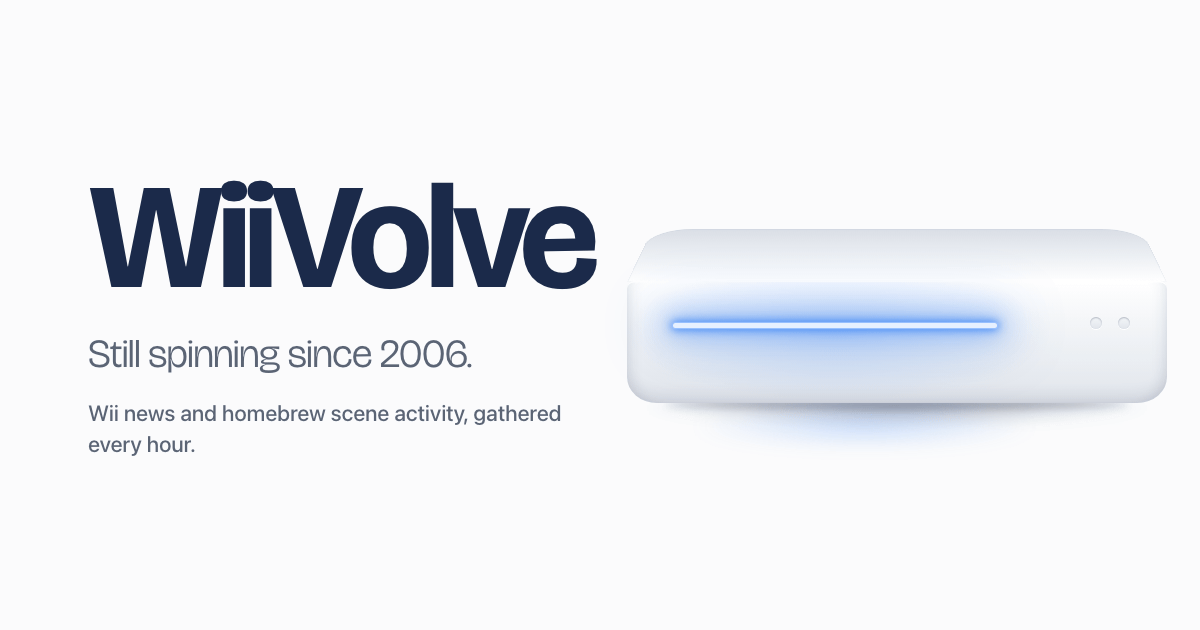
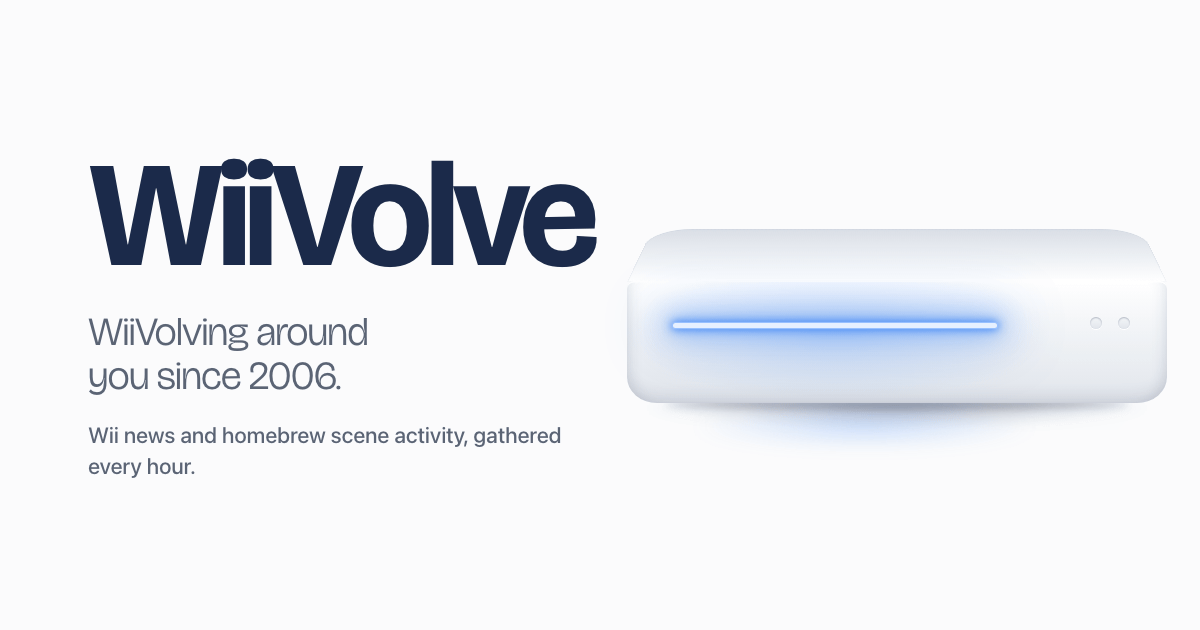
Tagline and footer: "WiiVolving around you since 2006.", no GitHub or JSON Feed link
The hero, page title, share image and docs now carry the original site's
slogan. The footer links RSS and About only; the JSON Feed and the GitHub
links stay in the About panel.

Changed region(s): [[0.0617, 0.2413, 0.4933, 0.4825], [0.0617, 0.5127, 0.4625, 0.754]]

diff --git a/assets-src/art.css b/assets-src/art.css
@@ -3,7 +3,7 @@
 *{animation:none!important;transition:none!important}
 body.og{display:grid;grid-template-columns:1fr 560px;align-items:center;gap:24px;width:1200px;height:630px;margin:0;padding:0 72px 0 88px;background:#fbfbfc;color:#1b2a4a;overflow:hidden}
 .og-word{margin:0;font:700 150px/.9 var(--fd);letter-spacing:-.045em}
-.og-tag{margin:26px 0 0;font:300 40px/1.1 var(--fd);letter-spacing:-.02em;color:#5b6474}
+.og-tag{margin:26px 0 0;font:300 40px/1.1 var(--fd);letter-spacing:-.02em;color:#5b6474;text-wrap:balance}
 .og-sub{margin:22px 0 0;max-width:22em;font:500 22px/1.4 var(--fb);color:#5b6474}
 .og .stage{--cw:540px;padding:0 0 40px}
 body.ic{display:grid;place-items:center;width:512px;height:512px;margin:0;background:radial-gradient(120% 90% at 50% 30%,#22325a,#131c31 70%);overflow:hidden}

diff --git a/templates/index.html b/templates/index.html
@@ -99,7 +99,7 @@
   <div class="foot-in wrap">
     <p class="status"><span id="status" data-generated="<!--@generated-->"><!--@status--></span><span class="upd" id="upd"></span></p>
     <p>© <!--@since-->–<!--@year--> <!--@author--> · Not affiliated with or endorsed by Nintendo.</p>
-    <nav class="foot-nav" aria-label="Elsewhere"><a href="/feed.xml">RSS</a><a href="/feed.json">JSON Feed</a><button type="button" popovertarget="about">About</button><!--@footRepo--></nav>
+    <nav class="foot-nav" aria-label="Elsewhere"><a href="/feed.xml">RSS</a><button type="button" popovertarget="about">About</button></nav>
   </div>
 </footer>
 <div class="about" id="about" popover role="dialog" aria-labelledby="about-h">

diff --git a/assets-src/og.html b/assets-src/og.html
@@ -5,7 +5,7 @@
 <body class="og">
 <div class="og-copy">
   <p class="og-word">WiiVolve</p>
-  <p class="og-tag">Still spinning since 2006.</p>
+  <p class="og-tag">WiiVolving around you since 2006.</p>
   <p class="og-sub">Wii news and homebrew scene activity, gathered every hour.</p>
 </div>
 <div class="stage"><span class="console"><span class="c-top"></span><span class="c-front"></span><span class="c-spill"></span><span class="c-edge"></span><span class="c-slot"></span><span class="c-btn"></span><span class="c-btn"></span><span class="c-floor"></span></span></div>

diff --git a/docs/ARCHITECTURE.md b/docs/ARCHITECTURE.md
@@ -69,7 +69,7 @@ The file is JSON. Comments (`//`, `/* */`) and trailing commas are tolerated, as
   "site": {
     "url": "https://wiivolve.com",          // canonical origin, no trailing slash
     "name": "WiiVolve",
-    "tagline": "Still spinning since 2006.",
+    "tagline": "WiiVolving around you since 2006.",
     "description": "Fresh Nintendo Wii news and homebrew scene activity, gathered every hour, on the site that covered the Wii from 2006 to 2008.",
     "author": "Ali Kurnaz",
     "since": 2006,
@@ -311,7 +311,7 @@ Head must contain: `<meta charset>`, viewport (without `viewport-fit=cover`: not
 8. **Items.** Headline link (opens the source; `rel="noopener"`), source name, time, optional excerpt (expandable; `<details name="…">` or clamp + toggle), "new" marker, and a share action added by JS (Web Share API, else copy link with a brief confirmation). *As built:* excerpts are plain paragraphs, clamped by CSS only under `@media (scripting: enabled)` (so they never shrink after first paint, and stay whole without JS); JS adds a chevron toggle with `aria-expanded` and a name that includes the headline only where text is hidden, and re-checks after a resize (a toggle that no longer hides anything goes). Below 360 px the toggle sits under Share, beside the excerpt, so the meta row keeps its room. The 44 px Share and toggle targets start 6 px above the meta row and never reach into the headline; their hover circle and focus ring are drawn round the icon (the top 34 px), so they never cover the excerpt below (forced colours keep a plain outline). Copying shows "Copied" or "Copy failed" for 1.8 s after the latest click. The meta row stays on one line: long publisher names and "via" shorten with an ellipsis, and "via Google News" is dropped below 480 px. Headlines and excerpts in right-to-left scripts keep their own direction (`unicode-bidi: plaintext`). The current Dolphin release item carries a "Latest release" pill.
 9. **Relative time.** `time` labels become "2h ago", "Yesterday", etc. with the full local date in `title` (a story from the same local day is never "Yesterday", even on the 25-hour day when clocks go back); refreshed every minute while visible, on `visibilitychange` and when the page returns from the back-forward cache.
 10. **About panel** (`#about`, native `popover`, works without JS): what this is, how it works (including that links found through Google News go through Google first), each source with its status from `health.json` ("Retrying" from the first failed hour, "Down" in the `--bad` colour from the third, in a grid so the status column lines up on phones; below 400 px the name takes its own row, so it never breaks inside a word), the switch for the `/` shortcut (JS only), the archive snapshot links (section 10), RSS and JSON Feed links, GitHub repo and a pre-filled "report a broken source" issue link (omit both if `site.repo` is null), the Nintendo disclaimer. Focus that leaves the open panel closes it, so the focused story is never behind it; focus on a button that opens the panel does not (its own click toggles it, so the About button also closes the panel).
-11. **Footer.** `#status` health line, copyright `© 2006–YYYY Ali Kurnaz`, "Not affiliated with or endorsed by Nintendo.", links to RSS, JSON Feed, About, GitHub.
+11. **Footer.** `#status` health line, copyright `© 2006–YYYY Ali Kurnaz`, "Not affiliated with or endorsed by Nintendo.", links to RSS and About. (The JSON Feed and GitHub links live in the About panel, not here.)
 12. **States.** No JS: everything readable, controls that need JS hidden (reserve their space; no layout shift when they appear) or disabled (the console), and copy about them hidden (`.js-only`). Filter/search with no results: empty state. All sources down: status line says "Sources unreachable right now. Showing the last update." (also when every source failed the latest fetch, i.e. all `stale` or `down`). No live items at all: "The feeds are quiet right now. The next check is within the hour." Nothing new: no glow, no count. Print (`print.css`, `media="print"`): hero and controls hidden, clean list, headed "WiiVolve · wiivolve.com", each story's full local date printed beside the relative one, the "Further back" line kept as a line, no reserved height. Forced colours (Windows contrast themes): the console keeps an outline and a lit slot, icons and the selected chip use system colours.
 13. **Motion.** Entrance and filter animations, the glow pulse; everything off under `prefers-reduced-motion: reduce` (glow becomes steady). *As built:* the glow ignites, breathes once and then holds (about 4.4 s, nothing loops). The hero and stories rise 10 px without fading (an opacity-0 start would keep the largest text out of LCP for over a second). Stories rise in only when the script runs before the first paint, so a late script never makes them blink.
 14. **Dark mode.** Automatic via `prefers-color-scheme`; tokens on `:root`, overridden in the media query; `color-scheme: light dark`.
@@ -393,8 +393,8 @@ Old WiiVolve URLs still appear in forums and old posts (`/fullNews.php?newsId=21
 
 ## 10. Copy
 
-* **Title:** WiiVolve — Wii news, still spinning since 2006
-* **Hero:** WiiVolve · Still spinning since 2006. · {age line} · {N new since your last visit}
+* **Title:** WiiVolve — Wii news, WiiVolving around you since 2006
+* **Hero:** WiiVolve · WiiVolving around you since 2006. · {age line} · {N new since your last visit}
 * **Deep end heading:** Eighteen quiet years.
 * **Deep end body:** From 2006 to 2008, WiiVolve covered the Wii several times a week, and almost daily around launch: news, reviews, previews, cheats, and Direct2Wii, a newsletter delivered to the console itself. The last post, in March 2008, promised a reconstruction. This is it.
 * **Quote:** "…a group of unpaid high school students in the middle of their school years." — WiiVolve Reconstruction Plan (linked to `https://web.archive.org/web/20110509235246/http://wiivolve.com/fullNews.php?newsId=267`), March 1, 2008
@@ -404,7 +404,7 @@ Old WiiVolve URLs still appear in forums and old posts (`/fullNews.php?newsId=21
 * **About:** "WiiVolve was a Wii news site from 2006 to 2008. It's back as a single page that gathers Wii news and homebrew scene activity from around the web every hour and links you to the source." · "How it works: every hour a small script reads the sources below, keeps what's about the original Wii, removes duplicates and rebuilds this page. Nobody edits the list by hand. Links to stories found through Google News go through Google first." · switch (JS only): "Press / anywhere to search"
 * **Status:** "9 of 9 sources OK · checked hourly" (a source counts as OK when its latest fetch worked: one shown as "Retrying" makes it "8 of 9") / "Sources unreachable right now. Showing the last update." (JS adds "Updated 20h ago": the time of the last change, which on a quiet day can be hours old although every source was checked within the hour)
 * **Empty search:** "No matches. Try All, or a shorter word." (Press or Scene, when All has a match) / "No matches. Try a shorter word, or clear the search." (All, or no match on any tab)
-* **Footer:** © 2006–{year} Ali Kurnaz · Not affiliated with or endorsed by Nintendo. · RSS · JSON Feed · About · GitHub
+* **Footer:** © 2006–{year} Ali Kurnaz · Not affiliated with or endorsed by Nintendo. · RSS · About
 * **404:** "No disc inserted." · "This page isn't here. If you followed an old WiiVolve link, it's probably in the archive." · "Back to WiiVolve" · "The old site's own lists, in the Wayback Machine: the news archive · reviews A to Z · features · the game database · cheats A to Z · every capture of the old site" (each link kept on one line, the paragraph balanced)
 * **Birthday:** "Happy birthday, Wii. 20 today."
 * **Microcopy added by the design** (template and app.js): console caption "The slot glows when something new arrives." / "Psst, something new. Press the console to jump in." / "Party hat on, confetti out, slot glowing." · signal slot "Latest Dolphin release: 2609" · first visit "N new in the last 24 hours" · quiet gaps "Seven quiet days." … "Two quiet months." (only where true, 6.2.3) · the line before the picks from further back "Further back: a few picks per source." · archive-only search "No news matches. N headlines in the archive below." · no live items "The feeds are quiet right now. The next check is within the hour." · mail call "N new stories just came in. Refresh" · page end "That’s the very first page. You made it all the way back to 2006. Back to today" · About snapshot note "August 26, 2006 · artwork not archived" · item pill "Latest release" · archive item note on the coming-soon page "(The page’s artwork was never archived.)", appended to its original tagline (an edit to the original text, listed in `legacy-assets/FACTS.md` section 8).

diff --git a/README.md b/README.md
@@ -1,6 +1,6 @@
 # WiiVolve
 
-**Wii news, still spinning since 2006.** <https://wiivolve.com>
+**Wii news, WiiVolving around you since 2006.** <https://wiivolve.com>
 
 WiiVolve was a Nintendo Wii news site from 2006 to 2008, run by a group of high-school students. In 2026 it is back as a single page that gathers Wii news and homebrew scene activity from around the web every hour, removes duplicates and links you to the source. Below today's news the page runs back in time to the original site's own 2006 to 2008 headlines, ending with the August 2006 "coming soon" page where it all started. Old wiivolve.com links from forums still work: they land on the best archived copy of the page.
 
